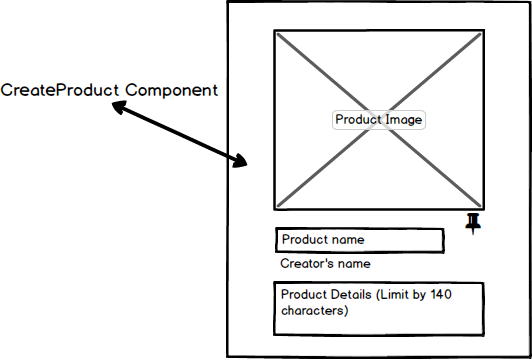
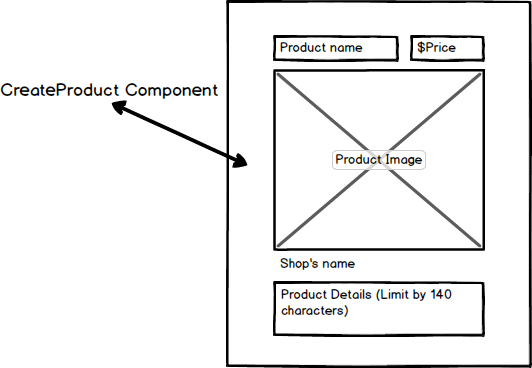
Updating the proposal

diff --git a/docs/schema.md b/docs/schema.md
@@ -9,6 +9,8 @@ email           | string    | not null, indexed, unique
 password_digest | string    | not null
 session_token   | string    | not null, indexed, unique
 image_url       | string    |
+firstname       | string    |
+lastname        | string    |
 
 ## shops
 column name     | data type | details
@@ -17,18 +19,20 @@ id              | integer   | not null, primary key
 name            | string    | not null, indexed, unique
 description     | text      |
 location        | string    | not null
-coord           | integer   | not null, indexed
+lat             | decimal   | not null, indexed
+lng             | decimal   | not null, indexed
 image_url       | string    |
 owner_id        | integer   | not null, foreign key (references users), indexed
 
-## tours
+## trips
 column name     | data type | details
 ----------------|-----------|-----------------------
 id              | integer   | not null, primary key
 name            | string    | not null, indexed, unique
-description     | text      |
+description     | string    |
 date            | date      |
 owner_id        | integer   | not null, foreign key (references users), indexed
+image_url       | string    |
 
 ## products
 column name     | data type | details
@@ -37,6 +41,7 @@ id              | integer   | not null, primary key
 name            | string    | not null, indexed, unique
 description     | text      |
 image_url       | string    | not null
+shop_id         | integer   | not null
 
 ## followings
 column name | data type | details
@@ -45,16 +50,30 @@ id          | integer   | not null, primary key
 follower_id | integer   | not null, foreign key (references users), indexed
 followee_id | integer   | not null, foreign key (references users), indexed
 
-## shop_has_products
+## shops_have_products
 column name | data type | details
 ------------|-----------|-----------------------
 id          | integer   | not null, primary key
 shop_id     | integer   | not null, foreign key (references shops), indexed
 product_id  | integer   | not null, foreign key (references products), indexed
 
-## tour_has_products
+## trips_have_products
 column name | data type | details
 ------------|-----------|-----------------------
 id          | integer   | not null, primary key
-tour_id     | integer   | not null, foreign key (references tours), indexed
+trip_id     | integer   | not null, foreign key (references trips), indexed
 product_id  | integer   | not null, foreign key (references products), indexed
+
+## users_follow_shops
+column name | data type | details
+------------|-----------|-----------------------
+id          | integer   | not null, primary key
+shop_id     | integer   | not null, foreign key (references shops), indexed
+user_id     | integer   | not null, foreign key (references users), indexed
+
+## users_follow_trips
+column name | data type | details
+------------|-----------|-----------------------
+id          | integer   | not null, primary key
+trip_id     | integer   | not null, foreign key (references trips), indexed
+user_id     | integer   | not null, foreign key (references users), indexed

diff --git a/docs/README.md b/docs/README.md
@@ -5,7 +5,7 @@
 [heroku]: www.herokuapp.com
 
 ## Minimum Viable Product
-ShopLife is a web application for discovering nearby products and organizing a shopping tour. It is built with Ruby on Rails and React/Redux.
+ShopLife is a web application for discovering nearby products and organizing a shopping trip. It is built with Ruby on Rails and React/Redux.
 
 - [ ] New account creation, login, and guest/demo login
 - [ ] A production README, replacing this README
@@ -19,9 +19,9 @@ Follows
 - [ ] Feature 4
 Discover feed on home page
 - [ ] Bonus 1
-Create best shopping tour based on locations of the items in the same Boards
+Create best shopping trip based on locations of the items in the same Boards
 - [ ] Bonus 2
-Support adding friends and inviting them to tours
+Support adding friends and inviting them to trips
 
 ## Design Docs
 * [View Wireframes][wireframes]
@@ -52,13 +52,13 @@ the API. Shops can create, read, edit, and update products.
 **Objective:** Users can search for products and read the details.
 Infinite Scroll Included.
 
-### Phase 4: Tour (2 days)
+### Phase 4: trip (2 days)
 
-**Objective:** Users can organize products into tours.
+**Objective:** Users can organize products into trips.
 
-### Phase 5: Users can follow or clone tours and follow other users (1 day, W2 Th 6pm)
+### Phase 5: Users can follow or clone trips and follow other users (1 day, W2 Th 6pm)
 
-**objective:** Users can follow other tours or clone tours. Users can
+**objective:** Users can follow other trips or clone trips. Users can
 also follow other users.
 
 ### Phase 6: - Pagination / infinite scroll for Notes Index (1 day, W2 F 6pm)
@@ -66,6 +66,6 @@ also follow other users.
 **objective:** Add maps to shop and product detail page to display location.
 
 ### Bonus Features (TBD)
-- [ ] Populate the products of a tour on a map
-- [ ] Add friends and invite them to tours
-- [ ] Allow users to post pictures of the tour
+- [ ] Populate the products of a trip on a map
+- [ ] Add friends and invite them to trips
+- [ ] Allow users to post pictures of the trip

diff --git a/docs/api-endpoints.md b/docs/api-endpoints.md
@@ -19,38 +19,50 @@
 - `DELETE /api/session`
 - `GET /api/session`
 
-### Board
+### Shop
 
-- `POST /api/boards`
-- `GET /api/boards/:id`
-- `PATCH /api/boards/:id`
-- `DELETE /api/boards/:id`
+- `POST /api/shops`
+- `GET /api/shops`
+- `GET /api/shops/:id`
+- `PATCH /api/shops/:id`
+- `DELETE /api/shops/:id`
 
-### Tour
+### Trip
 
-- `POST /api/tours`
-- `GET /api/tours/:id`
-- `PATCH /api/tours/:id`
-- `DELETE /api/tours/:id`
+- `POST /api/trips`
+- `GET /api/trips`
+- `GET /api/trips/:id`
+- `PATCH /api/trips/:id`
+- `DELETE /api/trips/:id`
 
 ### Product
 
 - `POST /api/products`
+- `GET /api/products/`
 - `GET /api/products/:id`
 - `PATCH /api/products/:id`
 - `DELETE /api/products/:id`
 
 ### Following
 - `POST /api/followings`
+- `GET /api/followings`
 - `GET /api/followings/:id`
 - `DELETE /api/followings/:id`
 
-### ShopHasProducts
-- `POST /api/shophasproducts`
-- `GET /api/shophasproducts/:id`
-- `DELETE /api/shophasproducts/:id`
+### ShopsHaveProducts
+- `POST /api/shopshaveproducts`
+- `GET /api/shopshaveproducts`
+- `GET /api/shopshaveproducts/:id`
+- `DELETE /api/shopshaveproducts/:id`
 
-### TourHasProducts
-- `POST /api/tourhasproducts`
-- `GET /api/tourhasproducts/:id`
-- `DELETE /api/tourhasproducts/:id`
+### TripsHaveProducts
+- `POST /api/tripshasproducts`
+- `GET /api/tripshasproducts`
+- `GET /api/tripshasproducts/:id`
+- `DELETE /api/tripshasproducts/:id`
+
+### UsersFollowShops
+- `POST /api/tripshasproducts`
+- `GET /api/tripshasproducts`
+- `GET /api/tripshasproducts\:id`
+- `DELETE /api/tripshasproducts/:id`

diff --git a/docs/component-hierarchy.md b/docs/component-hierarchy.md
@@ -3,28 +3,47 @@
 **AuthFormContainer**
 - AuthForm
 
-**SearchBarContainer**
+**SearchPageContainer**
 - SearchBar
-  - SearchBoard
-    - SearchResult
-      - ProductDetail
+- SearchResult
 
-**ProfileContainer**
-- ProfileDetail
-  - Follower
-  - Following
-  - Pin
-  - TourList
+**SearchBar**
+- SearchBar
+  - SuggestedSearchTerm
 
-**TourListContainer**
-- TourListDetail
+**SearchResult**
+- ProductBoard
+  - ProductIndex
+    - ProductDetail
+
+**ProfilePageContainer**
+- ProfilePage
+  - SearchBar
+  - ProfileDetail
+    - Follower
+    - Following
+    - Pin
+    - TripList
+    - ShopList
+
+**TripListContainer**
+- TripListDetail
 - ProductBoard
   - ProductDetail
+- MapComponent
 
 **ShopContainer**
 - ShopDetail
 - ProductBoard
   - ProductDetail
+- MapComponent
+
+**ProductDetail**
+- ProductDetail
+  - PinProduct
+    - ChooseTrip
+    - CreateTrip
+- MapComponent
 
 ## Routes
 
@@ -37,7 +56,7 @@
 | "/home/search-results" | "SearchResult" |
 | "/home/search-results/:productId" | "ProductDetail" |
 | "/home/profile" | "ProfileContainer" |
-| "/home/profile/:tourId" | "TourListContainer" |
-| "/home/profile/:tourId/:productId" | "ProductDetail" |
+| "/home/profile/:tripId" | "TripListContainer" |
+| "/home/profile/:tripId/:productId" | "ProductDetail" |
 | "/home/profile/:shopId" | "ShopContainer" |
 | "/home/profile/:shopId/:productId" | "ProductDetail" |
